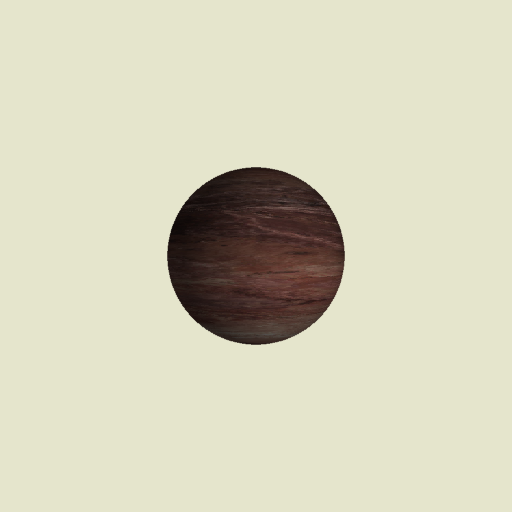
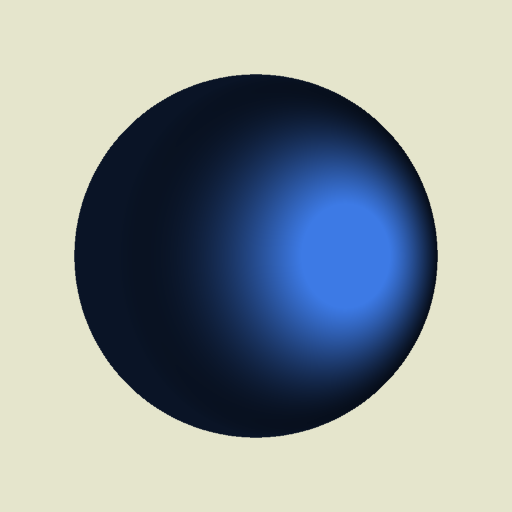
Phong model + texture WIP

diff --git a/Ex.5/Primitives/ray.py b/Ex.5/Primitives/ray.py
@@ -154,13 +154,19 @@ class Ray:
             # If nothing blocks the light
             i = light.intensity * falloff / distance ** 2
             i = min(i, 1)
-            r += light.color[0] * i
-            g += light.color[1] * i
-            b += light.color[2] * i
-        
-        #texturing check
 
-        return [hit.primitive.material.texture.spherical_mapping(hit.point)[i] * [r, g, b][i] for i in range(3)]
+            if hit.primitive.material is not None:
+                reflection = -ray.direction - 2 * (-ray.direction * normal) * normal
+                intensity = -i * (hit.primitive.material.mirror_reflection_coefficient * (direction * normal) + hit.primitive.material.diffuse_reflection_coefficient * (reflection * -self.direction) ** hit.primitive.material.specularExponent)
+                intensity = min(intensity, 1)
+            else:
+                intensity = i
+
+            r += light.color[0] * intensity
+            g += light.color[1] * intensity
+            b += light.color[2] * intensity
+
+        return [hit.primitive.get_texture_color(hit.point)[i] * [r, g, b][i] for i in range(3)]
 
     def check_intersection(self, primitives):
         for p in primitives:

diff --git a/Ex.4/material.py b/Ex.4/material.py
@@ -5,7 +5,7 @@ import math
 class Material:
 
     ## The constructor.
-    def __init__(self, ambientColour=(1,1,1), diffuseColour=(1,1,1), reflectColour=(1,1,1), specularColour=(0,0,0), specularExponent=1):
+    def __init__(self, ambientColour=(1,1,1), diffuseColour=(1,1,1), reflectColour=(1,1,1), specularColour=(0,0,0), specularExponent=1, mirror_reflection_coefficient=1, diffuse_reflection_coefficient=1):
 
         ## Colour of Material under white ambient light. Usually, but not always, the same as diffuseColour.
         self.ambientColour = ambientColour
@@ -21,6 +21,9 @@ class Material:
 
         ## 'Hardness' of Material's specular hightlights - high values give small, sharp highlights.
         self.specularExponent = specularExponent
+
+        self.mirror_reflection_coefficient = mirror_reflection_coefficient
+        self.diffuse_reflection_coefficient = diffuse_reflection_coefficient
 
     ## Function returning object values in string format.
     def __str__(self):

diff --git a/Ex.5/material.py b/Ex.5/material.py
@@ -5,7 +5,7 @@ import math
 class Material:
 
     ## The constructor.
-    def __init__(self, ambientColour=(1,1,1), diffuseColour=(1,1,1), reflectColour=(1,1,1), specularColour=(0,0,0), specularExponent=1, texture=None):
+    def __init__(self, ambientColour=(1,1,1), diffuseColour=(1,1,1), reflectColour=(1,1,1), specularColour=(0,0,0), specularExponent=1, mirror_reflection_coefficient=1, diffuse_reflection_coefficient=1, texture=None):
 
         ## Colour of Material under white ambient light. Usually, but not always, the same as diffuseColour.
         self.ambientColour = ambientColour
@@ -21,6 +21,9 @@ class Material:
 
         ## 'Hardness' of Material's specular hightlights - high values give small, sharp highlights.
         self.specularExponent = specularExponent
+
+        self.mirror_reflection_coefficient = mirror_reflection_coefficient
+        self.diffuse_reflection_coefficient = diffuse_reflection_coefficient
 
         self.texture = texture
 

diff --git a/Ex.4/Primitives/ray.py b/Ex.4/Primitives/ray.py
@@ -154,9 +154,17 @@ class Ray:
             # If nothing blocks the light
             i = light.intensity * falloff / distance ** 2
             i = min(i, 1)
-            r += light.color[0] * i
-            g += light.color[1] * i
-            b += light.color[2] * i
+
+            if hit.primitive.material is not None:
+                reflection = -ray.direction - 2 * (-ray.direction * normal) * normal
+                intensity = -i * (hit.primitive.material.mirror_reflection_coefficient * (direction * normal) + hit.primitive.material.diffuse_reflection_coefficient * (reflection * -self.direction) ** hit.primitive.material.specularExponent)
+                intensity = min(intensity, 1)
+            else:
+                intensity = i
+
+            r += light.color[0] * intensity
+            g += light.color[1] * intensity
+            b += light.color[2] * intensity
 
         return [hit.color[i] * [r, g, b][i] for i in range(3)]
 

diff --git a/Ex.4/Primitives/mesh.py b/Ex.4/Primitives/mesh.py
@@ -9,9 +9,9 @@ import numpy as np
 class Mesh(Primitive):
 
     ## Constructor.
-    def __init__(self, obj_file, position=Vec3()):
+    def __init__(self, obj_file, position=Vec3(), material=None):
 
-        super().__init__(None)
+        super().__init__(None, material)
 
         triangles_list = read_obj_file(obj_file)
 
@@ -21,7 +21,7 @@ class Mesh(Primitive):
             vertices.append(t)
         for f in triangles_list[1]:
             c = np.random.rand()
-            self.triangles.append(Triangle(position + vertices[f.x], position + vertices[f.y], position + vertices[f.z], [c, c, c]))
+            self.triangles.append(Triangle(position + vertices[f.x], position + vertices[f.y], position + vertices[f.z], [c, c, c], material))
 
     ## Checks if ray intersects with mesh and returns list of hits
     def get_detailed_intersections(self, ray):

diff --git a/Ex.5/Primitives/mesh.py b/Ex.5/Primitives/mesh.py
@@ -9,9 +9,9 @@ import numpy as np
 class Mesh(Primitive):
 
     ## Constructor.
-    def __init__(self, obj_file, position=Vec3()):
+    def __init__(self, obj_file, position=Vec3(), material=None):
 
-        super().__init__(None)
+        super().__init__(None, material)
 
         triangles_list = read_obj_file(obj_file)
 
@@ -21,7 +21,7 @@ class Mesh(Primitive):
             vertices.append(t)
         for f in triangles_list[1]:
             c = np.random.rand()
-            self.triangles.append(Triangle(position + vertices[f.x], position + vertices[f.y], position + vertices[f.z], [c, c, c]))
+            self.triangles.append(Triangle(position + vertices[f.x], position + vertices[f.y], position + vertices[f.z], [c, c, c], material))
 
     ## Checks if ray intersects with mesh and returns list of hits
     def get_detailed_intersections(self, ray):

diff --git a/Ex.5/Cameras/perspective_camera.py b/Ex.5/Cameras/perspective_camera.py
@@ -175,7 +175,7 @@ class PerspectiveCamera:
             for j in range(self.width):
 
                 if current_px % 1000 == 0:
-                    print('Progress: ' + str(round(current_px * 100 / number_of_pixels, 2)) + '%', end="\r")
+                    print('Progress: ' + str(round(current_px * 100 / number_of_pixels, 2)) + '%')
                 current_px += 1
 
                 # Set background color as default, if something is hit, it will be changed to primitive's color

diff --git a/Ex.5/Primitives/sphere.py b/Ex.5/Primitives/sphere.py
@@ -104,4 +104,9 @@ class Sphere(Primitive):
     def get_normal(self, point):
         return (point - self.centre).normalized()
 
-
+    ## Gets pixel color from material texture. If texture or material is None than return privmitive color
+    def get_texture_color(self, coords):
+        if self.material.texture is None or self.material is None:
+            return self.color
+        else:
+            return self.material.texture.spherical_mapping(coords, self.radius)

diff --git a/Ex.4/Primitives/plane.py b/Ex.4/Primitives/plane.py
@@ -6,9 +6,9 @@ from Primitives.primitive import *
 class Plane(Primitive):
 
     ## Constructor.
-    def __init__(self, normal_vector, d, color=[1, 0, 1]):
+    def __init__(self, normal_vector, d, color=[1, 0, 1], material=None):
 
-        super().__init__(color)
+        super().__init__(color, material)
 
         if normal_vector == Vec3(0, 0, 0):
             raise ValueError('Normal vector cannot be (0, 0, 0)')

diff --git a/Ex.5/Primitives/plane.py b/Ex.5/Primitives/plane.py
@@ -6,9 +6,9 @@ from Primitives.primitive import *
 class Plane(Primitive):
 
     ## Constructor.
-    def __init__(self, normal_vector, d, color=[1, 0, 1]):
+    def __init__(self, normal_vector, d, color=[1, 0, 1], material=None):
 
-        super().__init__(color)
+        super().__init__(color, material)
 
         if normal_vector == Vec3(0, 0, 0):
             raise ValueError('Normal vector cannot be (0, 0, 0)')

diff --git a/Ex.4/main.py b/Ex.4/main.py
@@ -13,7 +13,7 @@ p_cam = PerspectiveCamera(position=Vec3(0, 0, 0), view_direction=Vec3(0, 0, 1), 
 o_cam = OrthogonalCamera(position=Vec3(0, 0, 0), view_direction=Vec3(0, 0, 1), width=512, height=512, pixel_size=(0.01, 0.01))
 
 primitives1 = [
-    Sphere(Vec3(0, 0, 8), 2, [.2, .4, .75]),
+    Sphere(Vec3(0, 0, 8), 2, [.2, .4, .75], material=Material()),
     #Sphere(Vec3(2, 0, 7), 1, [.9, .0, 0])
 ]
 

diff --git a/Ex.4/Primitives/sphere.py b/Ex.4/Primitives/sphere.py
@@ -6,9 +6,9 @@ from Primitives.primitive import *
 class Sphere(Primitive):
 
     ## Constructor.
-    def __init__(self, centre=Vec3(0, 0, 0), radius=1, color=[1, 0, 1]):
+    def __init__(self, centre=Vec3(0, 0, 0), radius=1, color=[1, 0, 1], material=None):
 
-        super().__init__(color)
+        super().__init__(color, material)
 
         ## Centre of the sphere
         self.centre = centre
